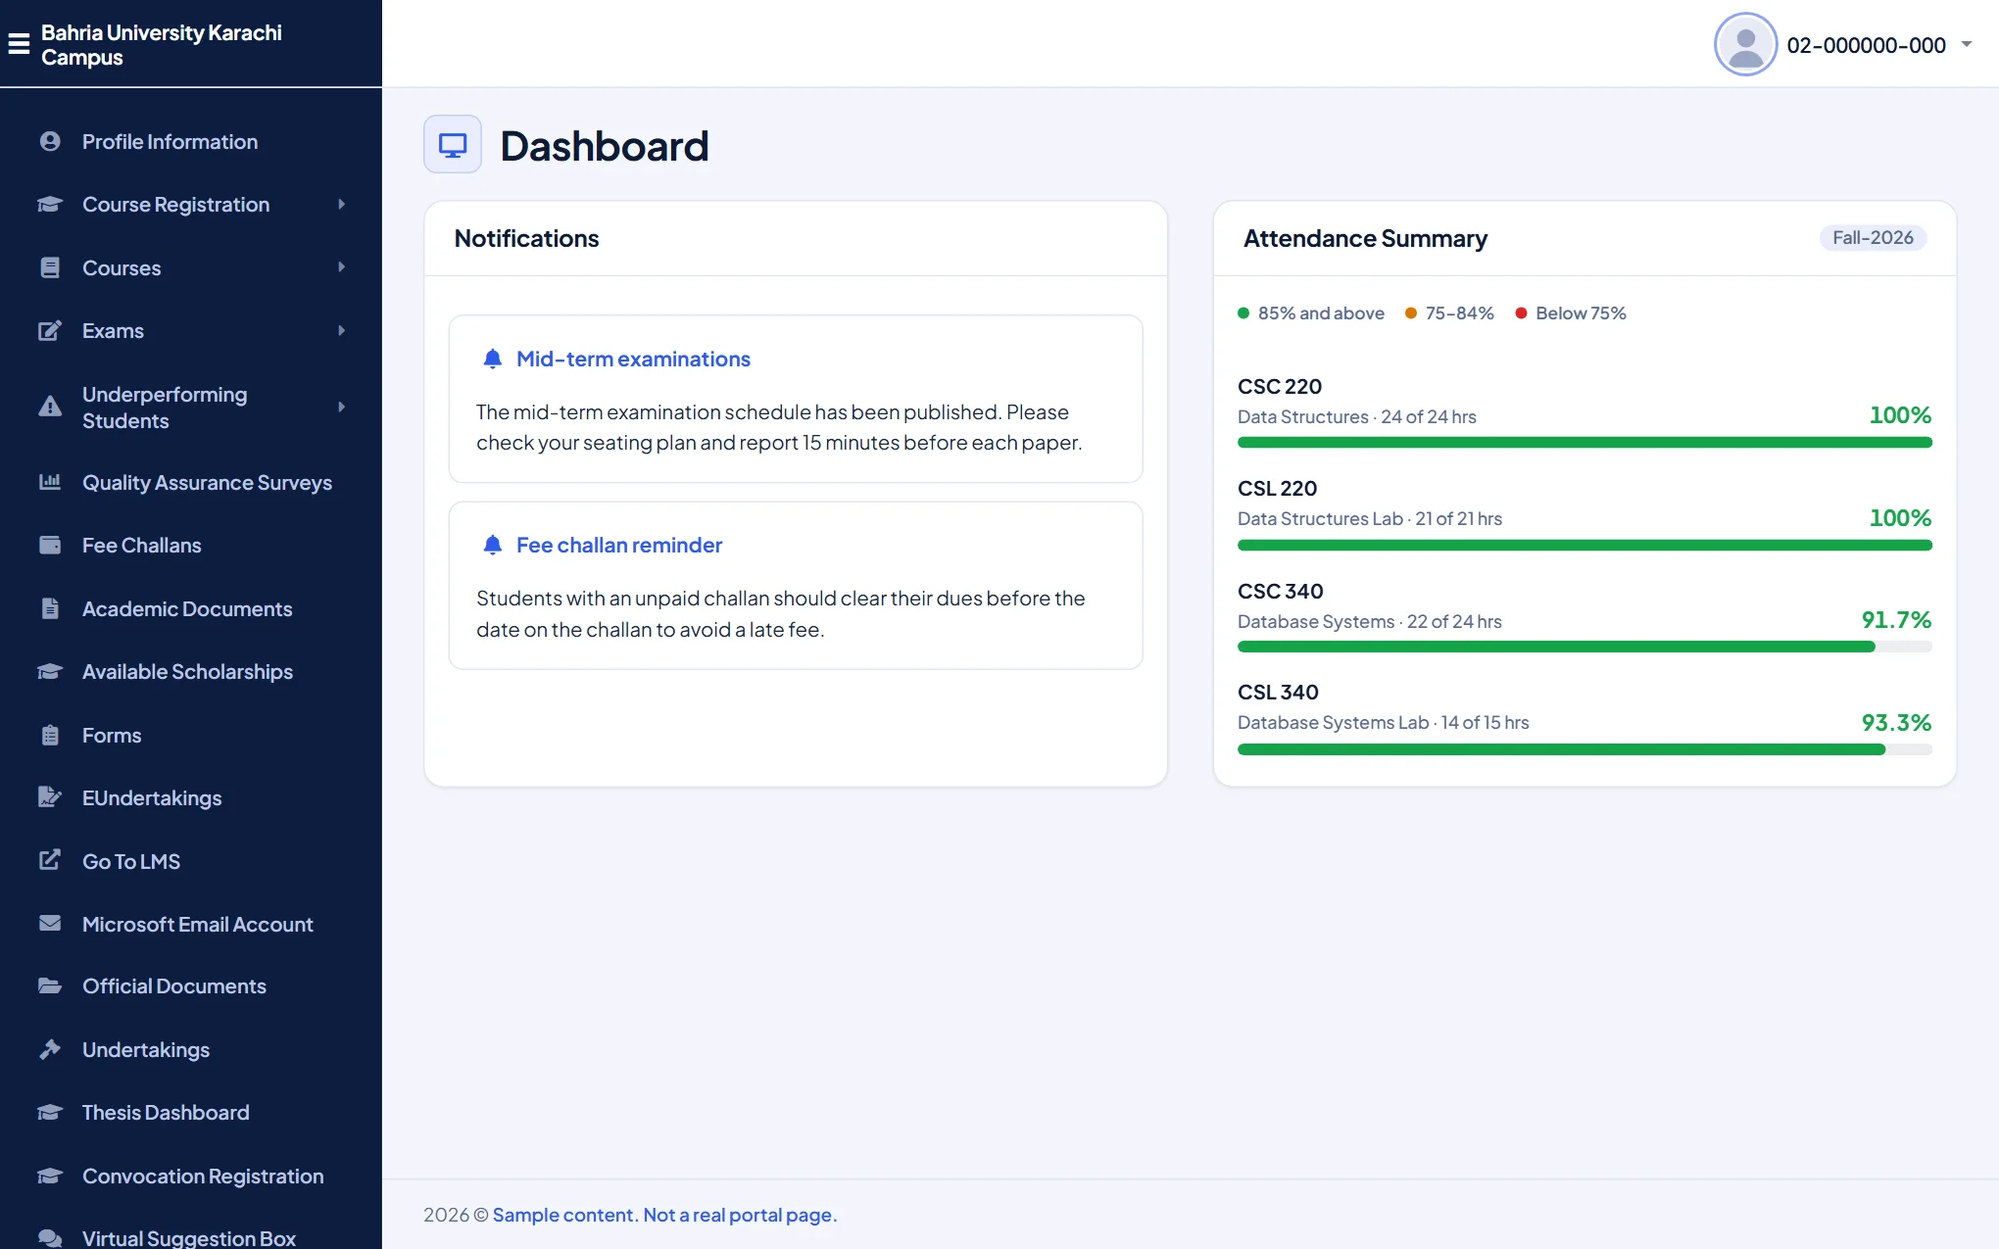
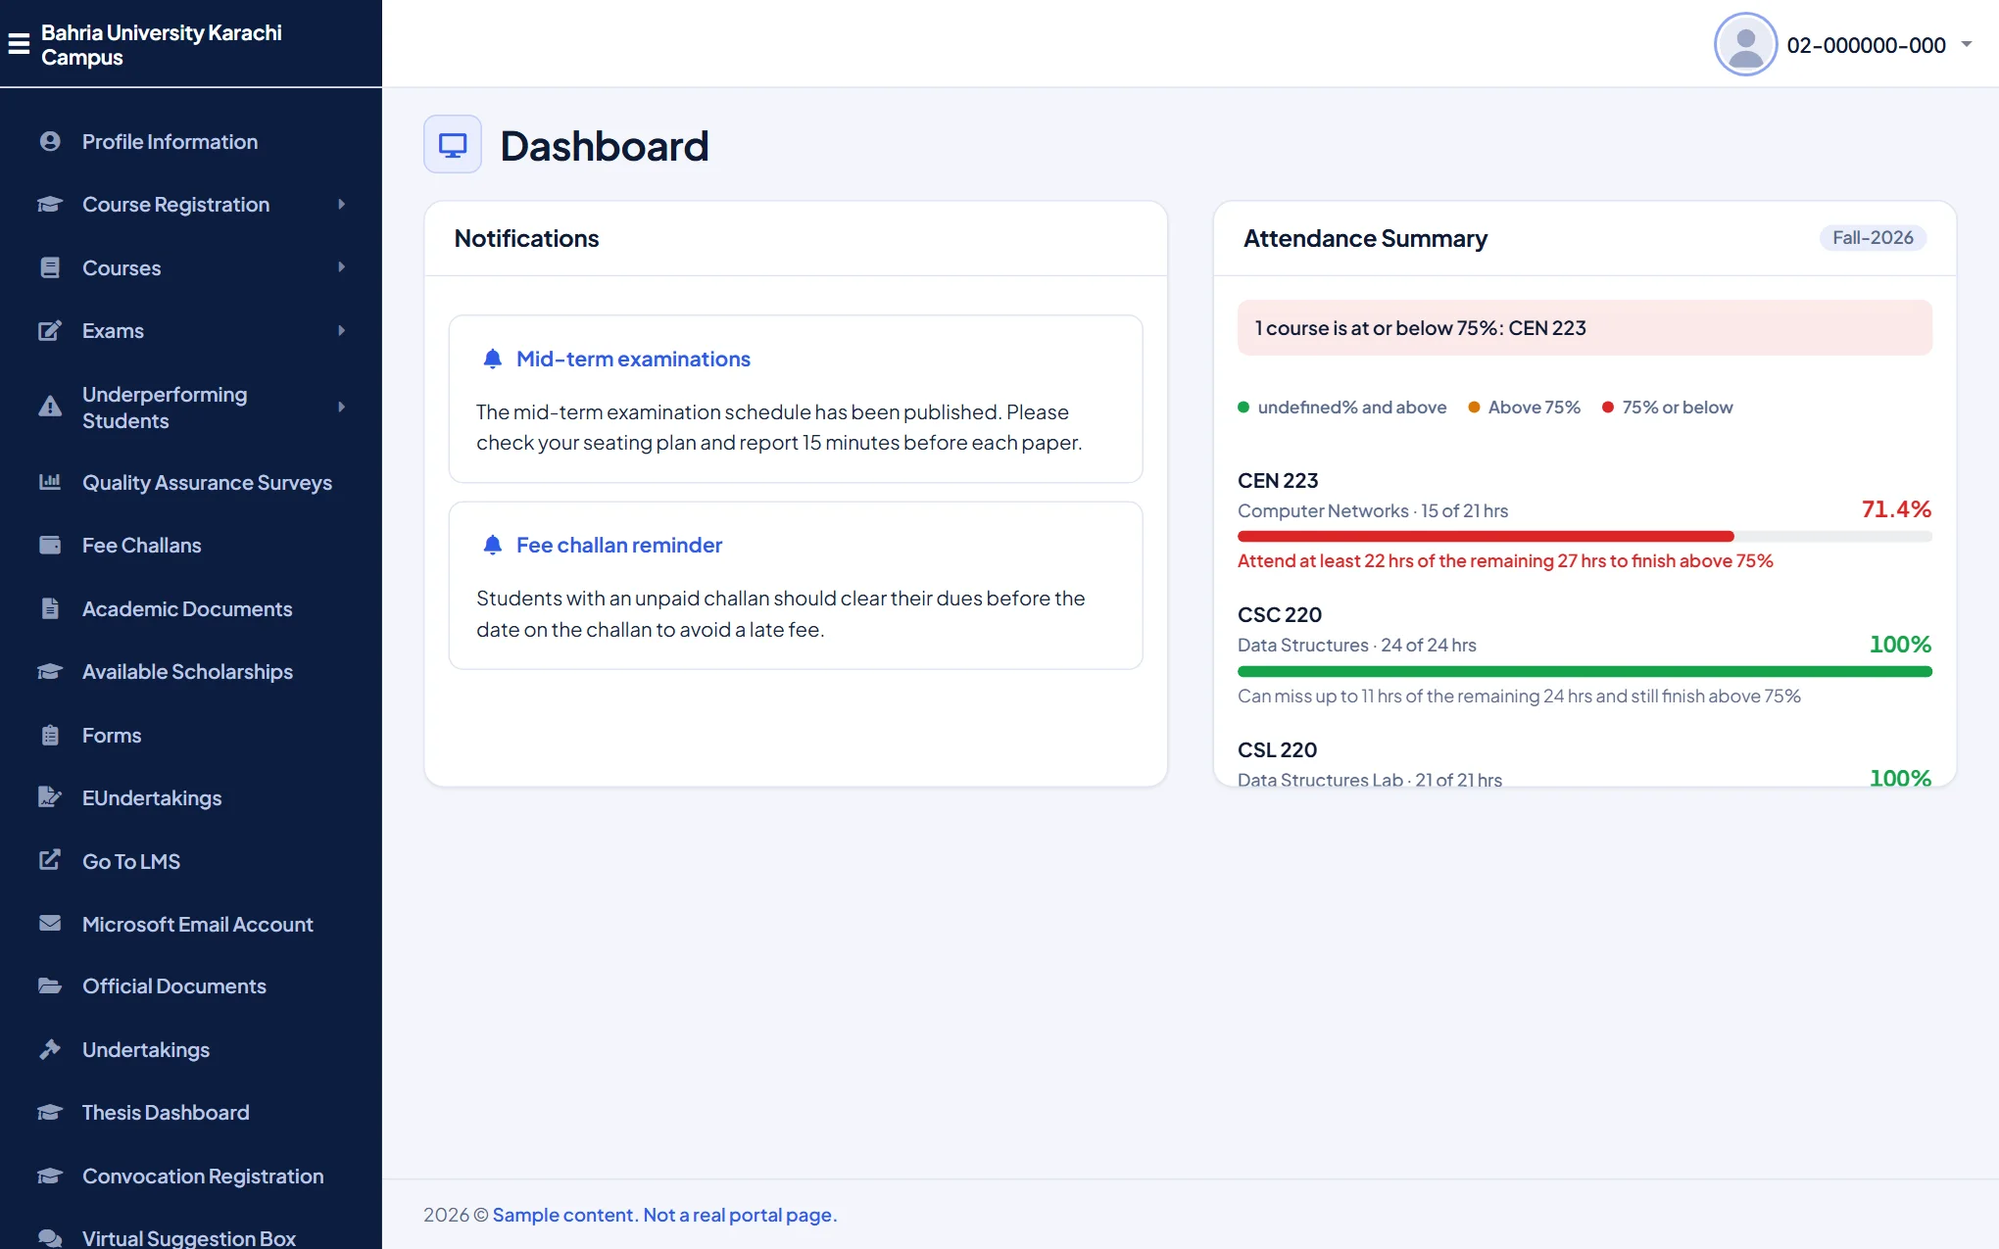
Update docs, privacy pages and site for the attendance planner

Changed region(s): [[0.6176, 0.3059, 0.9882, 0.6424], [0.6176, 0.2447, 0.8029, 0.2753]]

diff --git a/extension/privacy.html b/extension/privacy.html
@@ -1,1 +1,1 @@
-<!doctype html><html lang="en"><head><meta charset="utf-8"><meta name="viewport" content="width=device-width, initial-scale=1"><title>Privacy & trust · Campuslit</title><link rel="stylesheet" href="studio.css"></head><body><main class="policy"><a class="brand" href="options.html"><img class="brand-mark" src="icons/icon-48.png" width="30" height="30" alt=""><span>campus<span class="brand-light">lit</span></span></a><p class="eyebrow">Privacy & trust · Effective October 18, 2026 · Version 0.2.0</p><h1>Your portal. Your preferences.<br>Your privacy.</h1><p class="lead">Campuslit does not collect or transmit your personal data. Your appearance preferences stay in your browser.</p><div class="policy-box"><p><strong>No accounts. No analytics. No tracking.</strong><br>The extension makes no requests to external servers, includes no remote fonts or scripts, and operates without our own servers.</p></div><h2>What we store</h2><p>We store only appearance preferences: your selected theme, the colors and name of the custom theme you design (if any), accent color, typography, text size, spacing, corner radius, motion and background choices, and whether styling is enabled for CMS and LMS. These preferences use the browser's extension-local storage. We do not use browser cloud sync.</p><h2>What we do not collect</h2><p>We do not record, store, or transmit passwords, enrollment numbers, grades, attendance records, course content, fee details, browsing history, or other student data. To redraw a few screens, the extension reads figures the portal has already put on your page (your first name in the LMS greeting, your course list in the LMS dashboard, the attendance percentages in the CMS dashboard, and your class schedule on the CMS Time Table page) in your browser's memory only, shows them back to you, and discards them when the page closes. Nothing is saved or sent anywhere. We do not sell data, run analytics, or include advertising services.</p><h2>Why the extension can access the portals</h2><p>The extension runs on pages under cms.bahria.edu.pk and lms.bahria.edu.pk to apply appearance styles. Its content script checks the page address to choose the portal and page type, applies theme variables, and responds to preference changes. It does not inspect form values, intercept requests, or alter the university's form submissions.</p><h2>What “stays in your browser” means</h2><p>This promise applies to this extension and its preferences. Bahria University's websites still communicate with the university and any services those websites use, just as they normally do. The extension does not block that traffic or control the university's privacy practices. It does not make an insecure connection secure or guarantee the security of the underlying portal.</p><h2>Importing and exporting</h2><p>Export creates a JSON file containing only your appearance preferences and a format version. The file is saved through your browser. Import reads only the file you explicitly select. Neither action uploads anything. If you share the exported file or save it to a cloud-synced folder, that sharing is under your control.</p><h2>Your controls</h2><p>You can disable styling globally or for either portal, reset preferences in Campuslit settings, or remove the extension. Reset removes saved preferences and returns to the default theme. Browser removal normally deletes extension-local storage; exported files must be deleted separately. Browser or operating-system backups are outside this extension's control.</p><h2>Browser preview</h2><p>If you open the standalone preview outside an installed extension, preferences are stored in that preview site's localStorage. The preview uses fictional sample content and does not connect to your university account.</p><h2>Permissions and updates</h2><p>The bundled Inter font is loaded locally from the extension package, never from a font service. The extension requests storage permission and runs content scripts only on the two named portal domains. It does not request access to all websites, cookies, browser history, or downloads. Browser stores manage installation and update delivery under their own policies. Future changes to data handling will require a revised policy and extension release.</p><h2>Independent project</h2><p>Campuslit is an independent customization tool. It is not affiliated with, endorsed by, or operated by Bahria University. University names identify the websites the extension supports.</p><footer><a href="options.html">Back to settings</a></footer></main></body></html>
+<!doctype html><html lang="en"><head><meta charset="utf-8"><meta name="viewport" content="width=device-width, initial-scale=1"><title>Privacy & trust · Campuslit</title><link rel="stylesheet" href="studio.css"></head><body><main class="policy"><a class="brand" href="options.html"><img class="brand-mark" src="icons/icon-48.png" width="30" height="30" alt=""><span>campus<span class="brand-light">lit</span></span></a><p class="eyebrow">Privacy & trust · Effective October 18, 2026 · Version 0.2.0</p><h1>Your portal. Your preferences.<br>Your privacy.</h1><p class="lead">Campuslit does not collect or transmit your personal data. Your appearance preferences stay in your browser.</p><div class="policy-box"><p><strong>No accounts. No analytics. No tracking.</strong><br>The extension makes no requests to external servers, includes no remote fonts or scripts, and operates without our own servers.</p></div><h2>What we store</h2><p>We store only appearance preferences: your selected theme, the colors and name of the custom theme you design (if any), accent color, typography, text size, spacing, corner radius, motion and background choices, and whether styling is enabled for CMS and LMS. These preferences use the browser's extension-local storage. We do not use browser cloud sync.</p><h2>What we do not collect</h2><p>We do not record, store, or transmit passwords, enrollment numbers, grades, attendance records, course content, fee details, browsing history, or other student data. To redraw a few screens, the extension reads figures the portal has already put on your page (your first name in the LMS greeting, your course list in the LMS dashboard, the attendance hours and credit hours in the CMS dashboard and Attendance page (from which it works out how many hours you can miss), and your class schedule on the CMS Time Table page) in your browser's memory only, shows them back to you, and discards them when the page closes. Nothing is saved or sent anywhere. We do not sell data, run analytics, or include advertising services.</p><h2>Why the extension can access the portals</h2><p>The extension runs on pages under cms.bahria.edu.pk and lms.bahria.edu.pk to apply appearance styles. Its content script checks the page address to choose the portal and page type, applies theme variables, and responds to preference changes. It does not inspect form values, intercept requests, or alter the university's form submissions.</p><h2>What “stays in your browser” means</h2><p>This promise applies to this extension and its preferences. Bahria University's websites still communicate with the university and any services those websites use, just as they normally do. The extension does not block that traffic or control the university's privacy practices. It does not make an insecure connection secure or guarantee the security of the underlying portal.</p><h2>Importing and exporting</h2><p>Export creates a JSON file containing only your appearance preferences and a format version. The file is saved through your browser. Import reads only the file you explicitly select. Neither action uploads anything. If you share the exported file or save it to a cloud-synced folder, that sharing is under your control.</p><h2>Your controls</h2><p>You can disable styling globally or for either portal, reset preferences in Campuslit settings, or remove the extension. Reset removes saved preferences and returns to the default theme. Browser removal normally deletes extension-local storage; exported files must be deleted separately. Browser or operating-system backups are outside this extension's control.</p><h2>Browser preview</h2><p>If you open the standalone preview outside an installed extension, preferences are stored in that preview site's localStorage. The preview uses fictional sample content and does not connect to your university account.</p><h2>Permissions and updates</h2><p>The bundled Inter font is loaded locally from the extension package, never from a font service. The extension requests storage permission and runs content scripts only on the two named portal domains. It does not request access to all websites, cookies, browser history, or downloads. Browser stores manage installation and update delivery under their own policies. Future changes to data handling will require a revised policy and extension release.</p><h2>Independent project</h2><p>Campuslit is an independent customization tool. It is not affiliated with, endorsed by, or operated by Bahria University. University names identify the websites the extension supports.</p><footer><a href="options.html">Back to settings</a></footer></main></body></html>

diff --git a/site/privacy.html b/site/privacy.html
@@ -24,7 +24,7 @@
   <p>Only your appearance choices: theme, the name and colors of the custom theme you design (if any), accent colour, font, text size, spacing, corner radius, motion and background options, the sidebar width you drag to, your Week or List time table choice, and whether styling is on for the CMS and the LMS. These live in the browser’s extension storage on your device. Campuslit does not use browser cloud sync.</p>
 
   <h2>What it does not collect</h2>
-  <p>Campuslit does not record, store or send passwords, enrollment numbers, grades, attendance records, course content, fee details or browsing history. To redraw a few screens it reads figures the portal has already put on your page: your first name in the LMS greeting, your course list on the LMS dashboard, attendance percentages on the CMS dashboard, and your class schedule on the CMS Time Table page. These are used in your browser’s memory only, shown back to you, and discarded when the page closes. We do not sell data, run analytics or show ads.</p>
+  <p>Campuslit does not record, store or send passwords, enrollment numbers, grades, attendance records, course content, fee details or browsing history. To redraw a few screens it reads figures the portal has already put on your page: your first name in the LMS greeting, your course list on the LMS dashboard, attendance hours and credit hours on the CMS dashboard and Attendance page (from which it works out how many hours you can miss), and your class schedule on the CMS Time Table page. These are used in your browser’s memory only, shown back to you, and discarded when the page closes. We do not sell data, run analytics or show ads.</p>
 
   <h2>Why it can run on the portals</h2>
   <p>The extension runs only on pages under <code>cms.bahria.edu.pk</code> and <code>lms.bahria.edu.pk</code>. It checks the page address to choose the right look, applies your theme and responds to your changes. It does not read form values, intercept requests or alter what a form submits. It asks for the browser’s <code>storage</code> permission and nothing else.</p>

diff --git a/site/index.html b/site/index.html
@@ -86,9 +86,9 @@
       <div class="show flip reveal">
         <div class="show-text">
           <p class="kicker">CMS dashboard</p>
-          <h3>Attendance without squinting.</h3>
-          <p>The attendance chart becomes one readable row per course, with the percentage and hours beside it. Notifications stop scrolling away on their own.</p>
-          <ul class="ticks"><li>Green, amber and red so risky courses stand out.</li><li>Notices you can read at your own pace.</li><li>Clear, dismissible alerts when something is closed or fails.</li></ul>
+          <h3>Know how many classes you can miss.</h3>
+          <p>The attendance chart becomes one readable row per course, with a plain line under it: how many hours you can still miss this semester, or how many you must attend to finish above 75%. It counts from your credit hours and the length of your semester.</p>
+          <ul class="ticks"><li>“Can miss up to 3 lab sessions (9 hrs) of the remaining 27 hrs.”</li><li>Courses at or below 75% are named at the top.</li><li>Also on the Attendance page, built from its own table.</li></ul>
         </div>
         <figure class="frame">
           <div class="frame-bar"><i></i><i></i><i></i><span>cms.bahria.edu.pk</span></div>

diff --git a/docs/COVERAGE.md b/docs/COVERAGE.md
@@ -59,3 +59,9 @@ Reviewed in the preview, with real saved markup, and adjusted: Academic Document
 ## Settings page, popup and custom themes (v0.3)
 
 Redesigned settings page, popup and Studio (see `DESIGN.md`). Visual checks: settings at 1440, 1024, 820 and 390 px; popup at 372 px (483 px tall); Studio with a generated dark palette, a copied preset and a fine-tuned colour; two custom themes (dark rose, light mint) on the saved LMS dashboard and assignments, the CMS dashboard and the student sign-in. Not verified: custom themes on every portal page (they use the same variables as the presets, so they should hold, but only those four pages were looked at), installed-extension behaviour of the preview iframe in Chrome and Firefox, Firefox popup sizing.
+
+## Attendance planner (v0.4)
+
+`attendance.js` (pure maths, no page access) + `cms.js`. Rules: attendance must be MORE than 75% at the end of the semester (exactly 75.0% is not enough); a course's credit hours are its class hours per week; classes are whole hours (1 or 2 h); a lab is one continuous 3-hour session per credit hour. So the semester holds `weeks x weekly hours` (weekly = credit hours, or credit hours x 3 for a lab) and the hours left are that minus the hours held so far. With P attended, T held, S in the semester and R = S - T left: the fewest hours you must still attend is the smallest `a` with `100(P + a) > 75 S`, rounded up to whole classes (whole 3-hour sessions for a lab); "can miss" is the rest, rounded down to whole classes. Everything is in whole minutes. The semester length is a setting (Settings > Portals > Attendance planner, default 16 weeks, 10-20): it is an assumption to set to the real figure. Credit hours come from the Attendance page's table; the dashboard script has none, so there (and wherever they are missing) the planner falls back to counting from now. Labs are recognised by "Lab" in the title or a code like `CSL 220`. Shown on the CMS dashboard (data from the page's own script) and on the Attendance page (columns found by header text, present hours printed as "20.0 :90.91%").
+Error handling: each course is built on its own (a bad record is skipped or shown as "Cannot work this out from the numbers on the page"); missing, negative, non-numeric or absurd values, attended > held, and a portal percentage that contradicts its own hours (more than 1 point off) all give that message instead of advice; the script data is extracted with a string-aware bracket walk; the planner waits for the page to finish loading so it never works from half a table; every CMS feature runs in its own try/catch; if the module or the data is missing, the original chart or table is left alone.
+Verified: brute force over six credit/lab/length configurations against an independent reference (the promise holds and one more class breaks it), your worked examples (1-credit lab, 21 h held = 7 sessions; 2-credit, 14 h = week 7), messy-input and extraction tests, and in real Chrome on the sample dashboard and Attendance pages (all courses, one corrupted record, live change of semester length, removal when the CMS is switched off). Not verified: the real Attendance page with a different column layout or several semesters, the university's true semester length, and whether every lab is named as such (otherwise a lab is treated as ordinary hours).

diff --git a/README.md b/README.md
@@ -10,7 +10,7 @@ A cleaner, calmer look for the Bahria University student **CMS** and **LMS**, as
 
 - **LMS** (`lms.bahria.edu.pk`): redesigned header, resizable sidebar that marks the page you are on, filter bars, tables, status pills and dropdowns; a dashboard with your courses as cards; tap-or-keyboard popovers instead of hover-only comments.
 - **CMS** (`cms.bahria.edu.pk`): a unified header and sidebar with icons, tidier tables, forms and modals, clear error alerts, a role-card landing page and a one-screen student sign-in.
-- **Dashboard attendance** drawn as readable per-course rows, and a **Time Table** as a compact day board or a one-page week calendar with a "next class" card.
+- **Attendance planner**: per-course rows on the CMS dashboard and a planner card on the Attendance page, with a plain line under each course ("Can miss up to 11 hrs of the remaining 24 hrs and still finish above 75%"). It uses your credit hours (hours per week; a lab is a 3-hour session per credit hour) and the semester length you set, to count the hours left. Attendance must be more than 75%; 75.0% exactly is not enough. The course at risk is named in a banner; and a **Time Table** as a compact day board or a one-page week calendar with a "next class" card.
 - **A settings page with a live preview** built from real-structure CMS and LMS sample pages (invented data), drawn by the very stylesheets the portals get, so what you pick is exactly what you see.
 - **Six themes** (Bahria, Crystal, Midnight, Linen, Grove, Bloom) **plus a custom-theme maker for your own seventh**: pick a brand color and a mode and it generates a full coherent palette (or start from a preset and change any color), with a live readability check and one-click fix, undo, and a name. Custom accent, bundled fonts (Plus Jakarta Sans, Manrope, Sora, Inter), text size, spacing and corner radius. One master switch plus a CMS and an LMS switch in the popup turn everything, or just one portal, on or off.
 
@@ -25,7 +25,7 @@ Not yet on the Chrome Web Store or Firefox Add-ons; see `docs/RELEASE.md`.
 
 ## Privacy
 
-No analytics, no accounts, no remote code or fonts, no network requests from the extension, no access to passwords or form values. Only appearance preferences are stored, in the browser's extension storage. To redraw a few screens it reads figures the page already shows (greeting name, LMS course list, CMS attendance percentages and time table) in memory only; nothing is saved or sent. Full text: `extension/privacy.html`.
+No analytics, no accounts, no remote code or fonts, no network requests from the extension, no access to passwords or form values. Only appearance preferences are stored, in the browser's extension storage. To redraw a few screens it reads figures the page already shows (greeting name, LMS course list, CMS attendance hours and time table) in memory only; nothing is saved or sent. Full text: `extension/privacy.html`.
 
 ## Repository layout
 
